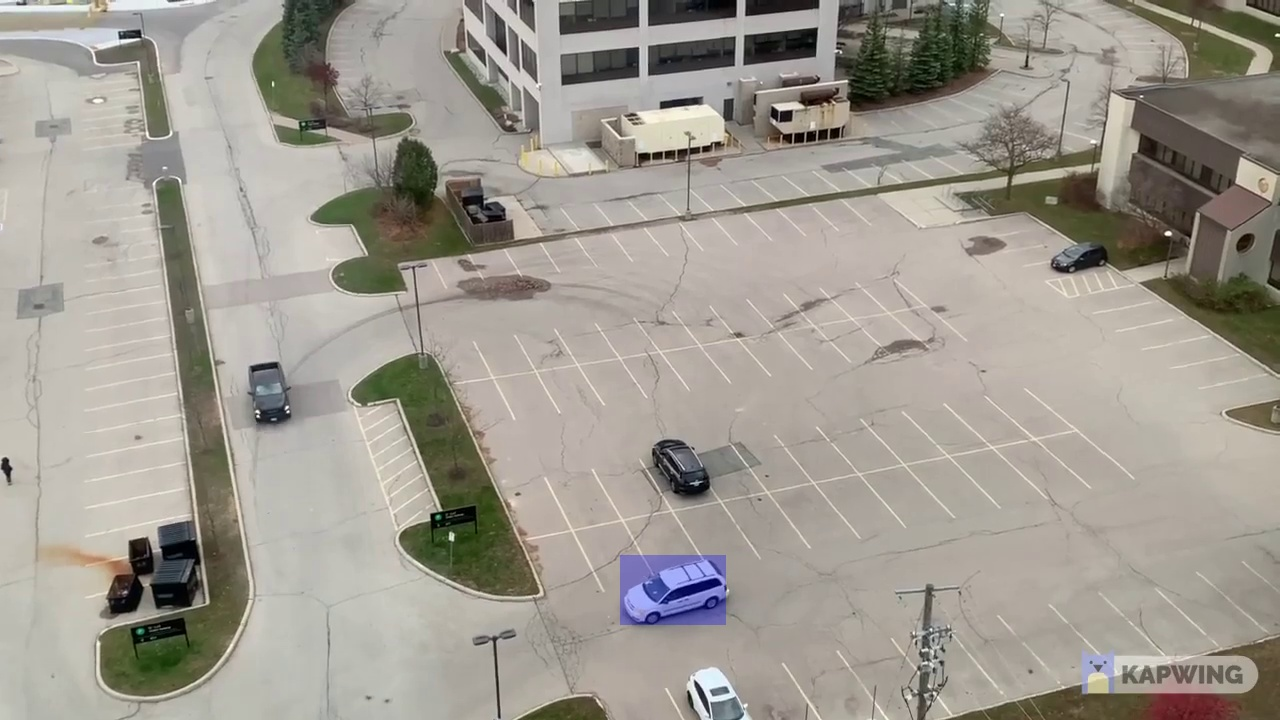
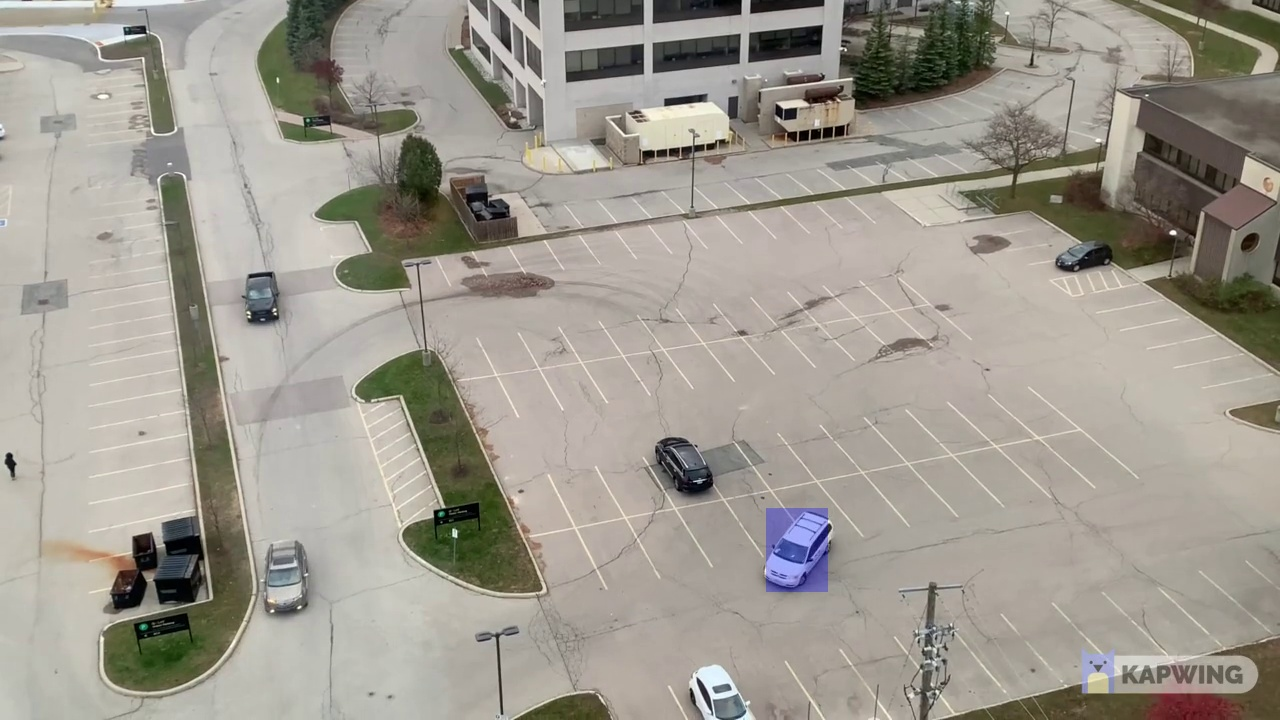
Assigning and occuping spots with colors working

diff --git a/extractor/src/cars.py b/extractor/src/cars.py
@@ -7,7 +7,7 @@ from deep_sort import generate_detections as gdet
 import cv2
 import numpy as np
 import tensorflow as tf
-from shapely.geometry import Polygon 
+from shapely.geometry import Polygon , box
 
 #Check out demo_yolo.py for explanation on how to set the model up
 
@@ -29,8 +29,10 @@ class carDetector:
         self.boundingBoxes = [] #Store bounding boxes of previous frame, will likely need this for object tracking
         self.currFrame = None
         self.openParkingSpots = []
-        self.takenParkingSpots=[]
+        self.assignedParkingSpots=[]
+        self.occupiedParkingSpots=[]
         self.matched = []
+        self.matchedCars = []
 
         #Threshold of what is a car
         self.thresh = 0.7
@@ -52,6 +54,8 @@ class carDetector:
 
         #Creating our model, we can change this to other models if needed. Check model zoo online for more.
         self.cvModel = Load_Yolo_model()
+        fourcc = cv2.VideoWriter_fourcc(*'mp4v')
+        self.out = cv2.VideoWriter('../footage/TrimmedVidDemo.mp4', fourcc, 1, (1280, 720)) # output_path must be .mp4
         print("init carDetector")
 
 
@@ -73,35 +77,84 @@ class carDetector:
         return iou
 
     def getPolygonIntersection(self, poly1, poly2):
-        return poly1.intersection(poly2).area
+        overlap = poly1.intersection(poly2).area
+        total = poly1.area + poly2.area - overlap
+        return overlap/total
+    
+    def markSpots(self):
+        polyImage = self.currFrame.copy()
+        for poly in self.openParkingSpots:
+            originalPoly = poly
+            poly = poly.polygon
+            int_coords = lambda x: np.array(x).round().astype(np.int32)
+            exterior = [int_coords(poly.exterior.coords)]
+            
+            if(self.checkIfOccupied(poly)):
+                cv2.fillPoly(polyImage, exterior, [0, 0, 255 ])
+                self.occupiedParkingSpots.append(originalPoly)
+            else:
+                cv2.fillPoly(polyImage, exterior, [0, 225, 0])
+        for poly in self.assignedParkingSpots:
+            originalPoly = poly
+            poly = poly.polygon
+            int_coords = lambda x: np.array(x).round().astype(np.int32)
+            exterior = [int_coords(poly.exterior.coords)]
+            if(self.checkIfOccupied(poly)):
+                cv2.fillPoly(polyImage, exterior, [0, 0, 255 ])
+                self.assignedParkingSpots.remove(originalPoly)
+                self.occupiedParkingSpots.append(originalPoly)
+            else: 
+                cv2.fillPoly(polyImage, exterior, [0, 255, 255 ])
+        for poly in self.occupiedParkingSpots:
+            originalPoly = poly
+            poly = poly.polygon
+            int_coords = lambda x: np.array(x).round().astype(np.int32)
+            exterior = [int_coords(poly.exterior.coords)]
+            if(self.checkIfOccupied(poly)):
+                cv2.fillPoly(polyImage, exterior, [0, 0, 255 ])
+            else: 
+                cv2.fillPoly(polyImage, exterior, [0, 255, 0 ])
+                self.occupiedParkingSpots.remove(originalPoly)
+                self.openParkingSpots.append(originalPoly)
+        image = cv2.addWeighted(polyImage, 0.3, self.currFrame, 0.7, 0.0)
+        cv2.imwrite("../footage/poly.jpg", image)
+        self.out.write(image)
+        return
+    
+    def checkIfOccupied(self, poly):
+        for car in self.boundingBoxes:
+            carPoly = self.convertBbToPolygon(car)
+            if(self.getPolygonIntersection(poly, carPoly) > 0.3):
+                return True
+        return False
 
     def get_spots(self, spotsArray):
         i = 0
+        print(self.openParkingSpots)
         for spot in spotsArray:
             self.openParkingSpots.append(spotObject(i, spot))
             i = i+1
-        poly = self.openParkingSpots[0].polygon
-        print(poly)
-        int_coords = lambda x: np.array(x).round().astype(np.int32)
-        exterior = [int_coords(poly.exterior.coords)]
-        polyImage = self.currFrame.copy()
-        cv2.fillPoly(polyImage, exterior, 255)
-        image = cv2.addWeighted(polyImage, 0.3, self.currFrame, 0.7, 0.0)
-        cv2.imwrite("../footage/poly.jpg", image)
+        
 
     def matchCar(self, carID):
         if(len(self.openParkingSpots ) < 1):
             print("No Open Spots")
             return
+        if(carID in self.matchedCars):
+            print("Car already matched")
+            return
         else:
             selectedSpot = self.openParkingSpots.pop()
             newMatch = (selectedSpot.index, carID)
             self.matched.append(newMatch)
-            self.takenParkingSpots.append(selectedSpot)
+            self.matchedCars.append(carID)
+            self.assignedParkingSpots.append(selectedSpot)
             print(self.matched)
 
 
-    def convertBbToPolygon(self, box):
+    def convertBbToPolygon(self, bbox):
+        poly = box(bbox[0], bbox[1], bbox[2], bbox[3], True)
+        return poly
         print("Poly")
 
     def convertPolygonToBb(self, poly):
@@ -158,6 +211,7 @@ class carDetector:
         self.prevFrame = self.currFrame
         image = draw_bbox(original_frame, tracked_bboxes, CLASSES=YOLO_COCO_CLASSES, tracking=True)
         cv2.imwrite("../footage/newimage.jpg", image)
+        self.markSpots()
         self.boundingBoxes = tracked_bboxes
         #Return bounding boxes with carIDs to broker
         return tracked_bboxes

diff --git a/extractor/src/spots.py b/extractor/src/spots.py
@@ -5,14 +5,17 @@ import numpy as np
 class spotDetector: 
     def __init__(self):
         self.allSpots=[]
+        self.convert = 1
+        #self.convert = 1.5
         self.getAllSpots()
         print(self.allSpots)
+        
 
     def getAllSpots(self):
-        self.allSpots.append(Polygon([(515,338),(535, 372),(578, 365),(555, 330)]))
-        #self.allSpots.append(Polygon([(),(),(),()]))
-        #self.allSpots.append(Polygon([(),(),(),()]))
-        #self.allSpots.append(Polygon([(),(),(),()]))
+        self.allSpots.append(Polygon([(515*self.convert,338*self.convert),(535*self.convert, 372*self.convert),(578*self.convert, 365*self.convert),(555*self.convert, 330*self.convert)]))
+        self.allSpots.append(Polygon([(639*self.convert, 461*self.convert),(672*self.convert, 511*self.convert),(721*self.convert, 503*self.convert),(689*self.convert, 451*self.convert)]))
+        self.allSpots.append(Polygon([(949*self.convert, 459*self.convert),(1000*self.convert, 510*self.convert),(1047*self.convert, 500*self.convert),(991*self.convert, 450*self.convert)]))
+        self.allSpots.append(Polygon([(771 *self.convert, 489*self.convert),(812*self.convert, 543*self.convert),(862*self.convert, 534*self.convert),(815*self.convert, 479*self.convert)]))   
         #self.allSpots.append(Polygon([(),(),(),()]))
 
     def returnSpots(self):

diff --git a/extractor/src/broker.py b/extractor/src/broker.py
@@ -11,6 +11,8 @@ class Broker:
         self.car_detector = carDetector()
         self.spot_detector = spotDetector()
         self.spotsArray = []
+        self.get_spots()
+        self.give_spots()
     
     def get_spots(self):
         self.spotsArray = self.spot_detector.returnSpots()
@@ -52,11 +54,8 @@ class Broker:
 
             # get car Ids from car class
             car_ids = self.get_cars(frame)
-            print("frame {} : IDS {}".format(self.frame_num, car_ids)) #TODO: <- remove this
+            #print("frame {} : IDS {}".format(self.frame_num, car_ids)) #TODO: <- remove this
             self.write_to_buffer(self.frame_num, car_ids)
-            
-            self.get_spots()
-            self.give_spots()
             # provide current spot and car IDS
             self.matcher.set_ids([],[])
 
@@ -68,8 +67,9 @@ class Broker:
                 # get image from spot class then car class 
             #    self.get_spot_image()
                 #self.get_car_image()
-            print(self.car_detector.get_car_image(2))
-            self.car_detector.matchCar(2)
+            #print(self.car_detector.get_car_image(2))
+            if(self.frame_num == 1):
+                self.car_detector.matchCar(2)
 
                 # TODO: send image to front end
             #    pass

diff --git a/extractor/src/main.py b/extractor/src/main.py
@@ -3,7 +3,7 @@ import cv2
 
 if __name__ == "__main__":
 
-    footage = cv2.VideoCapture('../footage/shortVid.mp4')
+    footage = cv2.VideoCapture('../footage/ShortVid.mp4')
     broker = Broker(footage, skip=1)
 
     # while there is still footage left
